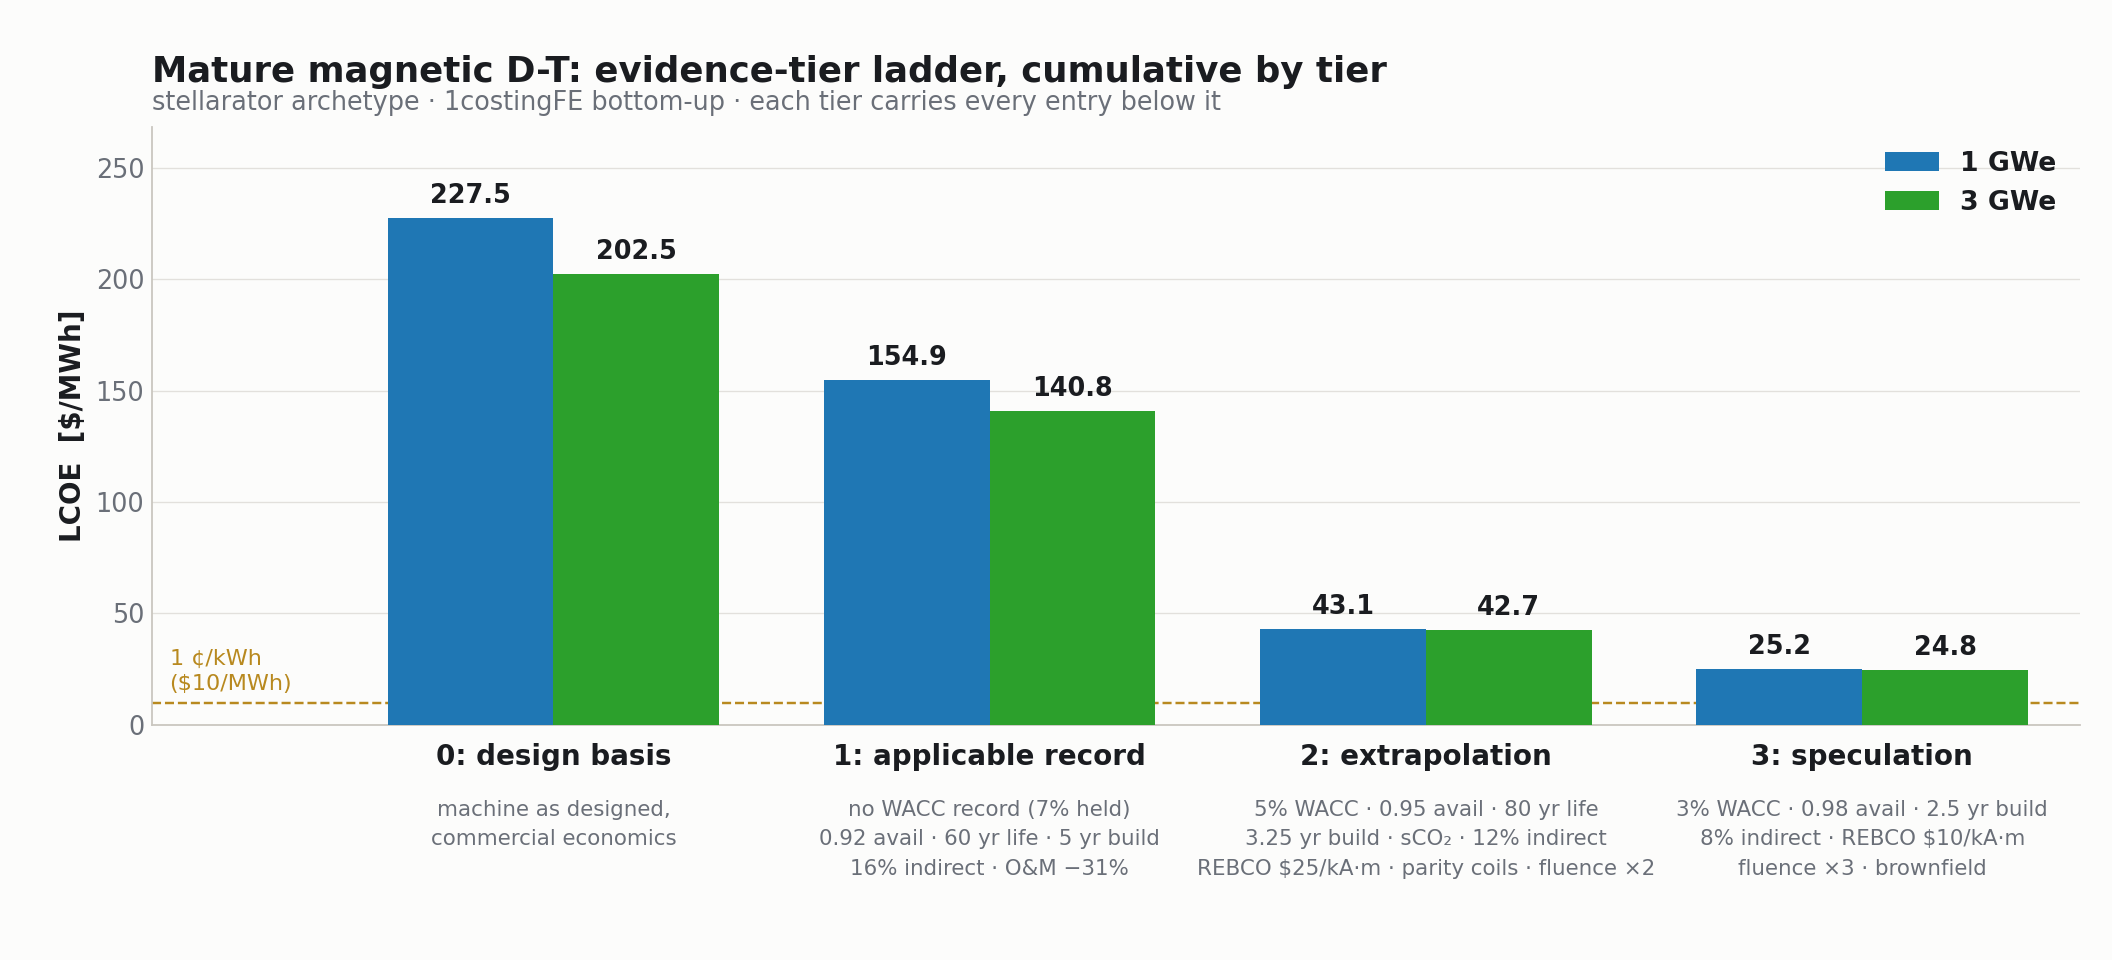
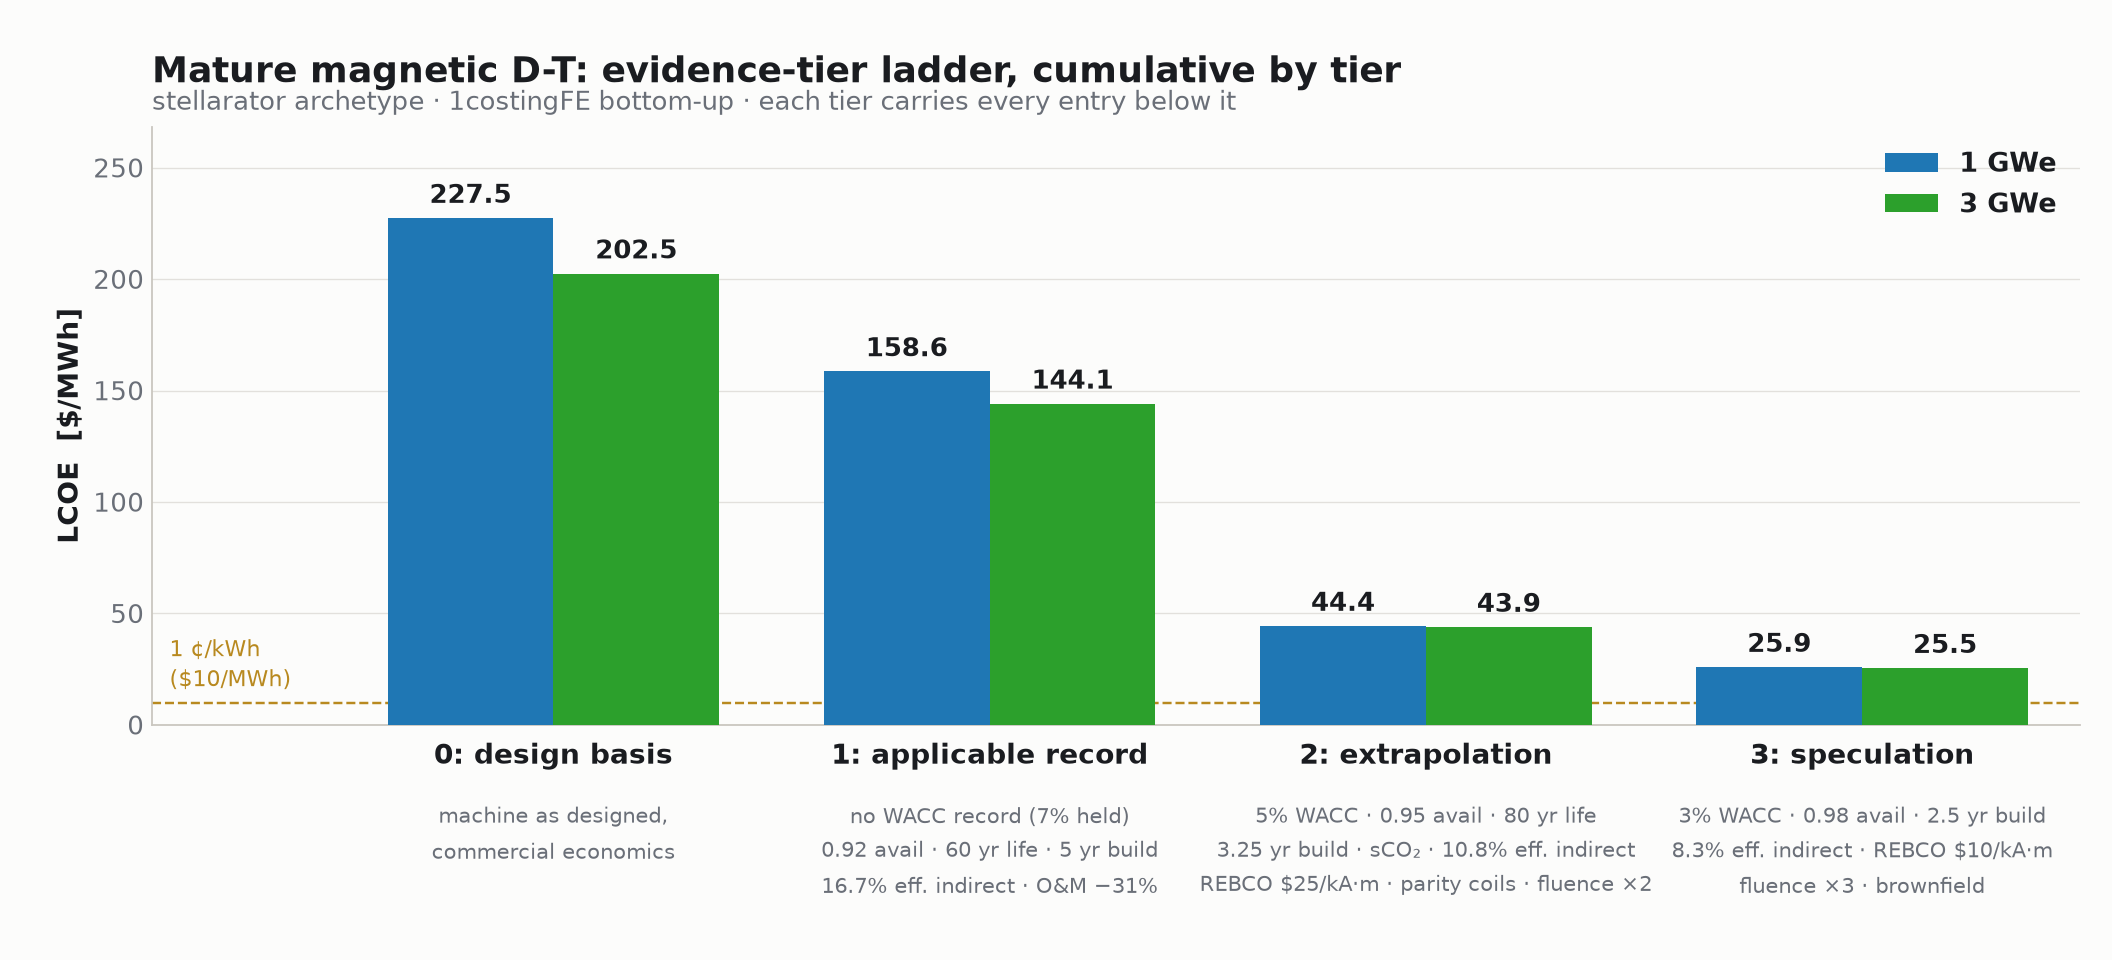
Match the published article: 20% nominal indirects, tier-3 lights-out O&M, regenerated results (#1)
* Match the published article: indirects held at 20% nominal, tier-3 lights-out O&M, regenerated results and figures

Per the 30 September publication check. See the PR description for the itemized changes.

* Tier 3 holds the tier-2 -55% fixed O&M; lights-out credited in none of the D-T ladders

---------

diff --git a/tier_ladder_figs.py b/tier_ladder_figs.py
@@ -40,7 +40,23 @@ TIERS = ["0: design basis", "1: applicable record",
 DOT, MINUS, SUB2, TIMES = "·", "−", "₂", "×"
 
 
-def ladder(fname, title, sub, s1_label, s1, s2_label, s2, notes, ymax=None):
+def ladder(fname, title, sub, s1_label, s1, s2_label, s2, notes, ymax=None,
+           cents=False):
+    """cents=True plots in ¢/kWh instead of $/MWh (1 ¢/kWh == $10/MWh).
+
+    The corridor model works in $/MWh throughout, so the conversion happens
+    here at the plotting boundary only -- corridor_tiers.json stays canonical
+    and the other two corridors keep their $/MWh axis untouched.
+    """
+    scale = 0.1 if cents else 1.0
+    s1 = [v * scale for v in s1]
+    s2 = [v * scale for v in s2]
+    target = TARGET * scale
+    ylabel = "LCOE  [¢/kWh]" if cents else "LCOE  [$/MWh]"
+    # ~1-13 ¢/kWh needs a second decimal to keep the tiers distinguishable
+    vfmt = ",.2f" if cents else ",.1f"
+    tlabel = "1 ¢/kWh" if cents else "1 ¢/kWh\n($10/MWh)"
+
     fig, ax = plt.subplots(figsize=(13.2, 6.0))
     fig.patch.set_facecolor(SURFACE)
     ax.set_facecolor(SURFACE)
@@ -57,14 +73,14 @@ def ladder(fname, title, sub, s1_label, s1, s2_label, s2, notes, ymax=None):
             off = hi * 0.015
             ax.text(bar.get_x() + bar.get_width() / 2,
                     v + off if v >= 0 else v - off * 2.4,
-                    f"{v:,.1f}", ha="center",
+                    format(v, vfmt), ha="center",
                     va="bottom" if v >= 0 else "top",
                     fontsize=11.5, color=INK, fontweight="600", zorder=4)
 
     # target line, with a left gutter opened up so its label never sits on a bar
     ax.set_xlim(-0.92, len(TIERS) - 0.5)
-    ax.axhline(TARGET, ls="--", lw=1.1, color="#b8891f", zorder=2)
-    ax.text(-0.88, TARGET + hi * 0.014, "1 ¢/kWh\n($10/MWh)", fontsize=10,
+    ax.axhline(target, ls="--", lw=1.1, color="#b8891f", zorder=2)
+    ax.text(-0.88, target + hi * 0.014, tlabel, fontsize=10,
             color="#b8891f", ha="left", va="bottom", zorder=5, linespacing=1.35)
     if lo < 0:
         ax.axhline(0, lw=0.9, color=RULE, zorder=2)
@@ -78,7 +94,7 @@ def ladder(fname, title, sub, s1_label, s1, s2_label, s2, notes, ymax=None):
         ax.text(i, -0.125, n, transform=tr, ha="center", va="top",
                 fontsize=9.6, color=MUTED, linespacing=1.6)
 
-    ax.set_ylabel("LCOE  [$/MWh]", fontsize=12.5, color=INK, fontweight="600")
+    ax.set_ylabel(ylabel, fontsize=12.5, color=INK, fontweight="600")
     ax.set_ylim(lo * 1.35 if lo < 0 else 0, hi)
     ax.set_title(title, fontsize=16, color=INK, fontweight="600", loc="left", pad=20)
     ax.text(0, 1.018, sub, transform=ax.transAxes, fontsize=11.5, color=MUTED,
@@ -105,8 +121,10 @@ def ladder(fname, title, sub, s1_label, s1, s2_label, s2, notes, ymax=None):
 # Tier 1 carries no cost-of-capital record, so the 7% design basis is held there.
 NOTE_T1 = (f"no WACC record (7% held)\n"
            f"0.92 avail {DOT} 60 yr life {DOT} 5 yr build\n"
-           f"16% indirect {DOT} O&M {MINUS}31%")
+           f"16.7% eff. indirect {DOT} O&M {MINUS}31%")
 
+# Trimmed for this repository: the shared engine also draws the other
+# corridors' ladders, which live in their own repositories.
 # ------------------------------------------------------------------- mature D-T
 M = D["mature"]
 ladder(
@@ -119,42 +137,10 @@ ladder(
     ["machine as designed,\ncommercial economics",
      NOTE_T1,
      f"5% WACC {DOT} 0.95 avail {DOT} 80 yr life\n"
-     f"3.25 yr build {DOT} sCO{SUB2} {DOT} 12% indirect\n"
+     f"3.25 yr build {DOT} sCO{SUB2} {DOT} 10.8% eff. indirect\n"
      f"REBCO $25/kA{DOT}m {DOT} parity coils {DOT} fluence {TIMES}2",
      f"3% WACC {DOT} 0.98 avail {DOT} 2.5 yr build\n"
-     f"8% indirect {DOT} REBCO $10/kA{DOT}m\n"
+     f"8.3% eff. indirect {DOT} REBCO $10/kA{DOT}m\n"
      f"fluence {TIMES}3 {DOT} brownfield"],
 )
 
-# --------------------------------------------------------------- pulsed power
-P = D["pulsed"]
-ladder(
-    "figures/pulsed_tier_ladder.png",
-    "Pulsed power: evidence-tier ladder, cumulative by tier",
-    f"1 GWe {DOT} both configurations at their design rep rate {DOT} "
-    f"sCO{SUB2} from tier 2",
-    "fiber / direct, 10 Hz", [r[1] for r in P["fiber"]],
-    "KrF / hybrid, 1 Hz", [r[1] for r in P["krf"]],
-    ["as-designed drivers,\ncommercial economics",
-     NOTE_T1,
-     f"5% WACC {DOT} 0.95 avail {DOT} 80 yr life\n"
-     f"3.25 yr build {DOT} sCO{SUB2} {DOT} 12% indirect\n"
-     f"half-step driver + targets",
-     f"3% WACC {DOT} 0.98 avail {DOT} 2.5 yr build\n"
-     f"8% indirect {DOT} optics {TIMES}3\n"
-     f"targets {MINUS}90%/{MINUS}50% {DOT} 10 FTE"],
-)
-
-# ------------------------------------------------------------ alternate revenue
-R = D["revenue"]
-ladder(
-    "figures/revenue_tier_ladder.png",
-    "Alternate revenue: evidence-tier ladder, cumulative by tier",
-    "co-product credited against one 1 GWe D-T tokamak held at its published NOAK baseline",
-    "+ gold transmutation", [r[1] for r in R["gold"]],
-    "+ high-grade heat", [r[1] for r in R["heat"]],
-    ["electricity only,\n$110.5/MWh",
-     "spot Au at plant WACC,\n200 MW-th at observed price",
-     "ledger basis: 3% cooldown;\n200 MW-th + TES capacity",
-     "Au fungible day one;\nheat-led, 1 GW-th offtake"],
-)

diff --git a/corridor_tiers.py b/corridor_tiers.py
@@ -60,14 +60,22 @@ def coil_mult(rebco, planar=False, concept="stellarator"):
 # lever names.  See the markdown appendices for the citation behind each entry.
 # Each stop is the best value some real project has held at that grade; see the
 # markdown appendices for the citation behind every entry.
+#
+# Indirects are the exception: the nominal fraction is held at the NETL 20% at
+# every rung and only the build time moves what is actually charged, because
+# CAS30 = fraction x CAS20 x (construction_time / 6 yr) already carries the
+# schedule.  Effective shares are 20% at a 6 yr build, 16.7% at 5 yr, 10.8% at
+# 3.25 and 8.3% at 2.5 -- the same convention as the aneutronic studies.
 T1_REC = {"av": 0.92, "life": 60.0, "constr": 5.0,
-          "indir": 0.16, "om": 0.69}
-T2_EXT = {"wacc": 0.05, "indir": 0.12,
+          "indir": 0.20, "om": 0.69}
+T2_EXT = {"wacc": 0.05, "indir": 0.20,
           "av": 0.95, "life": 80.0, "constr": 3.25, "flu": 2.0,
           "om": 0.45}
 # Brownfield siting is a scenario choice, not an evidence grade: one package
 # (buildings, interconnection, heat rejection) that the tier-3 preset adopts.
-T3_SPEC = {"wacc": 0.03, "indir": 0.08,
+# Fixed O&M stays at the tier-2 -55%: lights-out operation is not credited in
+# any of the three D-T ladders.
+T3_SPEC = {"wacc": 0.03, "indir": 0.20,
            "av": 0.98, "constr": 2.5, "flu": 3.0, "disr": 0.167,
            "bld": 0.65, "elec": 0.40, "hr": 0.60}
 
@@ -146,20 +154,22 @@ def plcoe(concept, ri, L, eta_f, wear_f):
 
 
 PT1 = {"av": 0.92, "life": 60.0, "constr": 5.0,
-       "indir": 0.16, "om": 0.69}
+       "indir": 0.20, "om": 0.69}
 # Driver capital, target factory and target opex have a sourced baseline and a
 # sourced endpoint but nothing in between, so the tier-2 value is simply the
 # midpoint of the two -- an increment between baseline and ceiling, not a
 # separately sourced operating point.  Same convention as the wall-plug and
 # shot-life increments above.
-PT2 = {"wacc": 0.05, "indir": 0.12,
+PT2 = {"wacc": 0.05, "indir": 0.20,
        "av": 0.95, "life": 80.0, "constr": 3.25,
        "sco2": True, "om": 0.45, "tfac": 0.825,
        "drv": {"BLF": 0.834, "Xcimer": 0.813},
        "tgt": {"BLF": 0.55, "Xcimer": 0.75}}
-# tier 3 replaces the fleet-staffing O&M step with lights-out operation (~10 FTE)
-PT3 = {"wacc": 0.03, "indir": 0.08,
-       "av": 0.98, "constr": 2.5, "om": 0.0855, "tfac": 0.65,
+# Tier 3 holds the tier-2 fixed-O&M reduction (-55%): lights-out operation (~10 FTE)
+# is not credited in any of the three D-T ladders (mature, pulsed, byproduct), so
+# they share one tier-3 O&M convention.
+PT3 = {"wacc": 0.03, "indir": 0.20,
+       "av": 0.98, "constr": 2.5, "om": 0.45, "tfac": 0.65,
        "drv": {"BLF": 0.667, "Xcimer": 0.625},
        "tgt": {"BLF": 0.10, "Xcimer": 0.50},
        "bld": 0.65, "elec": 0.40, "hr": 0.60}

diff --git a/stel_tornado_plot.py b/stel_tornado_plot.py
@@ -70,7 +70,6 @@ rows = [
                                                        d(constr=2.5),       "lever"),
     ("Availability  0.85 $\\rightarrow$ 0.98",         d(av=0.98),          "lever"),
     ("Fixed O&M  $-$55%",                              d(om=0.45),          "lever"),
-    ("Indirect cost  20% $\\rightarrow$ 8%",           d(indir=0.08),       "lever"),
     ("Brownfield siting",                              d(bld=0.65, elec=0.40,
                                                          hr=0.60),          "lever"),
     ("Power cycle  Rankine $\\rightarrow$ sCO$_2$ Brayton", d_slice(SCO2),       "lever"),

diff --git a/README.md b/README.md
@@ -8,18 +8,20 @@ This is the analysis code behind the 1cFE dispatch *Mature Magnetic D-T Corridor
 
 ## Result
 
-A mature D-T magnetic plant does not reach 1 ¢/kWh. It reaches **2.5 ¢/kWh**, and only
+A mature D-T magnetic plant does not reach 1 ¢/kWh. It reaches **2.6 ¢/kWh**, and only
 on assumptions with no mechanism behind them.
 
 | Evidence tier | 1 GWe | 3 GWe |
 |---|---|---|
 | 0 · design basis | $227.5 | $202.5 |
-| 1 · applicable record | $154.9 | $140.8 |
-| 2 · extrapolation with a known mechanism | $43.1 | $42.7 |
-| 3 · speculation, no mechanism | **$25.2** | **$24.8** |
+| 1 · applicable record | $158.6 | $144.1 |
+| 2 · extrapolation with a known mechanism | $44.4 | $43.9 |
+| 3 · speculation, no mechanism | **$25.9** | **$25.5** |
 
 LCOE in $/MWh. Tiers are cumulative — each carries every entry below it. The 1 ¢/kWh
 target is $10/MWh.
+
+Two conventions were brought to the published article on 30 September 2026. The nominal indirect-cost fraction is held at the NETL 20% on every rung and only the build time moves what is charged (CAS30 = fraction × CAS20 × build / 6 yr, so 20 / 16.7 / 10.8 / 8.3% effective at 6 / 5 / 3.25 / 2.5 years), the convention the aneutronic studies use; the earlier 20 / 16 / 12 / 8% ladder charged the schedule twice. Tier 3 holds the tier-2 fixed-O&M reduction (−55%); lights-out operation (about ten staff) is credited in none of the three D-T ladders, so they share one tier-3 O&M convention. Both are in `corridor_tiers.py`; the tornado applies the same deepest values one at a time.
 
 ## Reproducing
 
@@ -41,7 +43,8 @@ python build_stel_anchors.py                # solve the stellarator at 1 and 3 G
 python build_ct_corridor.py                 # compact-tokamak reference sweep
 python corridor_tiers.py                    # evidence ladder -> corridor_tiers.json
 python tier_ladder_figs.py                  # figures/*_tier_ladder.png
-python stel_tornado_plot.py                 # figures/stel_tornado.png
+python stel_tornado_plot.py                 # figures/stel_tornado.png; the article's
+                                            # fig_tornado_crop.png is its top 965 px
 ```
 
 `build_stel_anchors.py` should print:
